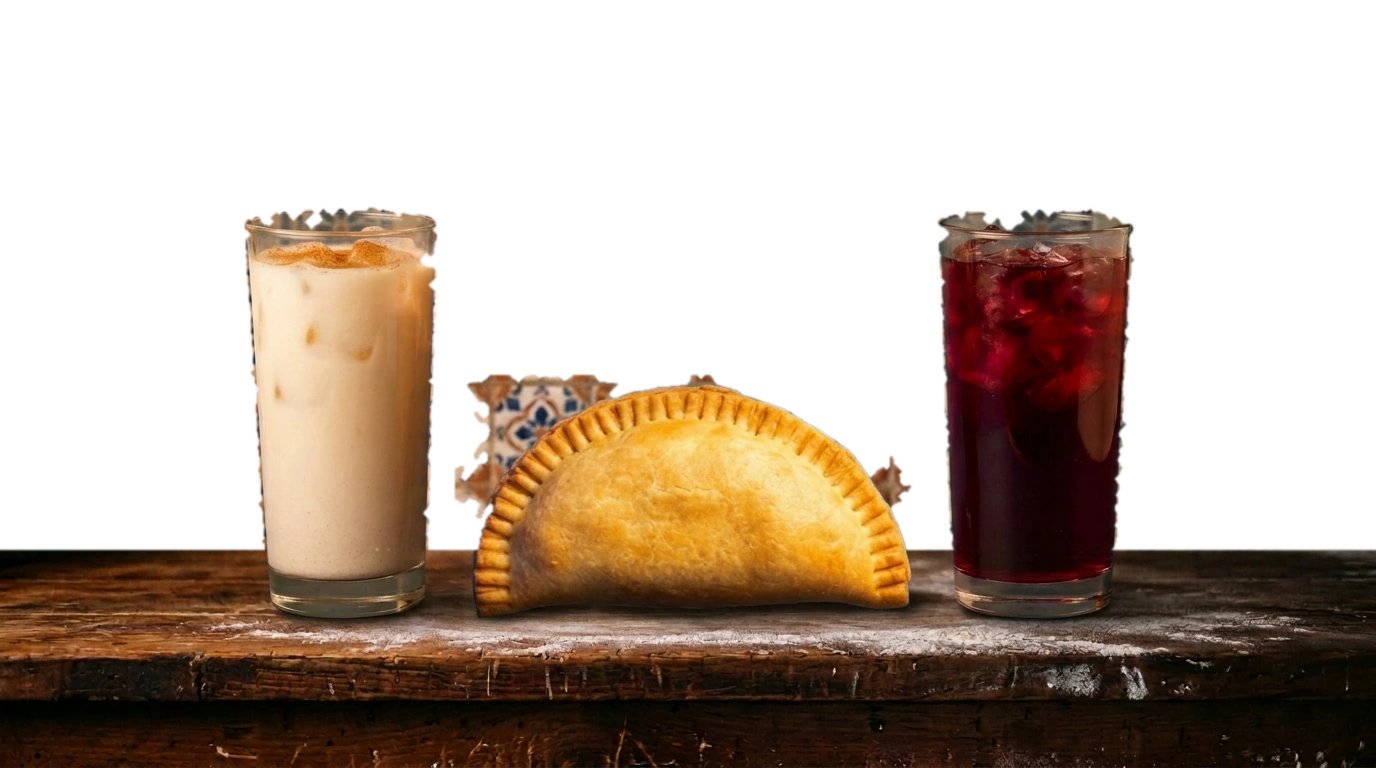
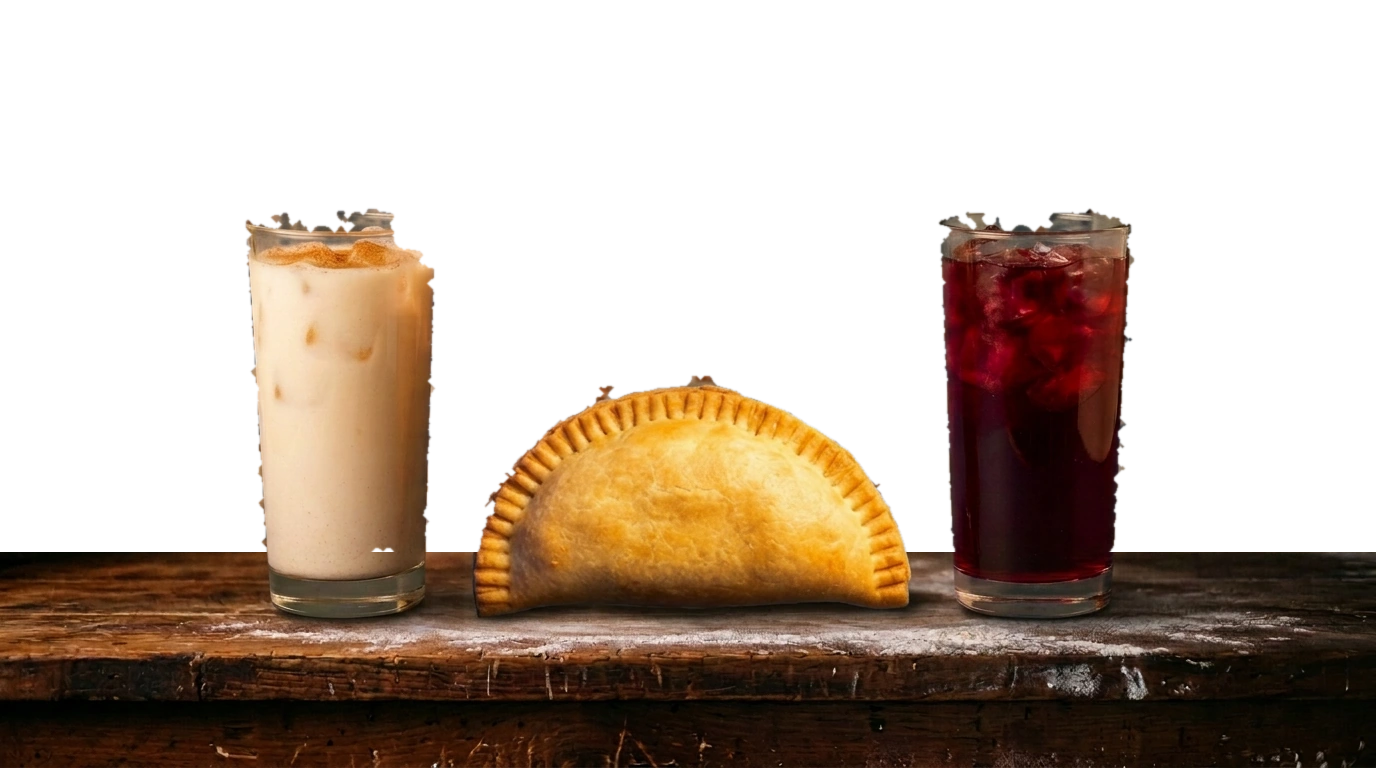
Abuelita's hero: tight cut of the trio (only glass and pastry kept, edge pulled 1px inside), so no rendered tile rides along on the fixed layer and smears against the drifting wall

diff --git a/clients/abuelitas/index.html b/clients/abuelitas/index.html
@@ -9,7 +9,7 @@
 <link rel="icon" href="favicon.svg" type="image/svg+xml">
 <link rel="preconnect" href="https://fonts.googleapis.com"><link rel="preconnect" href="https://fonts.gstatic.com" crossorigin>
 <link rel="stylesheet" href="https://fonts.googleapis.com/css2?family=Alfa+Slab+One&family=Figtree:wght@400;500;600;700;800&family=Lobster+Two:ital,wght@1,700&display=swap">
-<link rel="stylesheet" href="style.css?v=4a32ffc3">
+<link rel="stylesheet" href="style.css?v=08d3afa4">
 </head>
 <!-- data-checkout: the shop server's /checkout?shop=abuelitas address once it is hosted; empty keeps the last step in draft -->
 <body data-checkout="https://shop.seaofgrass.studio/checkout?shop=abuelitas">
@@ -22,7 +22,7 @@
     <div class="band top" aria-hidden="true"></div>
     <h1><span class="glints" aria-hidden="true"><i class="g1"></i><i class="g2"></i><i class="g3"></i><i class="g4"></i></span><span class="script">Abuelita&rsquo;s</span> <span class="caps">Empanadas</span></h1>
     <div class="arch" aria-hidden="true">
-      <div class="plate"><img class="wall" src="art/kitchen.webp?v=4a32ffc3" alt=""><img class="front" src="art/kitchen-front.webp?v=4a32ffc3" alt="">
+      <div class="plate"><img class="wall" src="art/kitchen.webp?v=08d3afa4" alt=""><img class="front" src="art/kitchen-front.webp?v=08d3afa4" alt="">
         <svg class="steam" viewBox="0 0 120 80" width="0" height="0" fill="none" stroke="none"><path d="M34 78c-9-12 11-20 0-36s9-22 2-40"/><path d="M60 78c-9-12 11-20 0-36s9-22 2-40"/><path d="M86 78c-9-12 11-20 0-36s9-22 2-40"/></svg></div>
     </div>
     <div class="hero-row">
@@ -203,9 +203,9 @@
   <a href="https://seaofgrass.studio" rel="noopener">Site by Sea of Grass</a>
 </footer>
 
-<script src="frame.js?v=4a32ffc3"></script>
-<script src="crimp.js?v=4a32ffc3"></script>
-<script src="weave.js?v=4a32ffc3"></script>
-<script src="order.js?v=4a32ffc3"></script>
+<script src="frame.js?v=08d3afa4"></script>
+<script src="crimp.js?v=08d3afa4"></script>
+<script src="weave.js?v=08d3afa4"></script>
+<script src="order.js?v=08d3afa4"></script>
 </body>
 </html>
